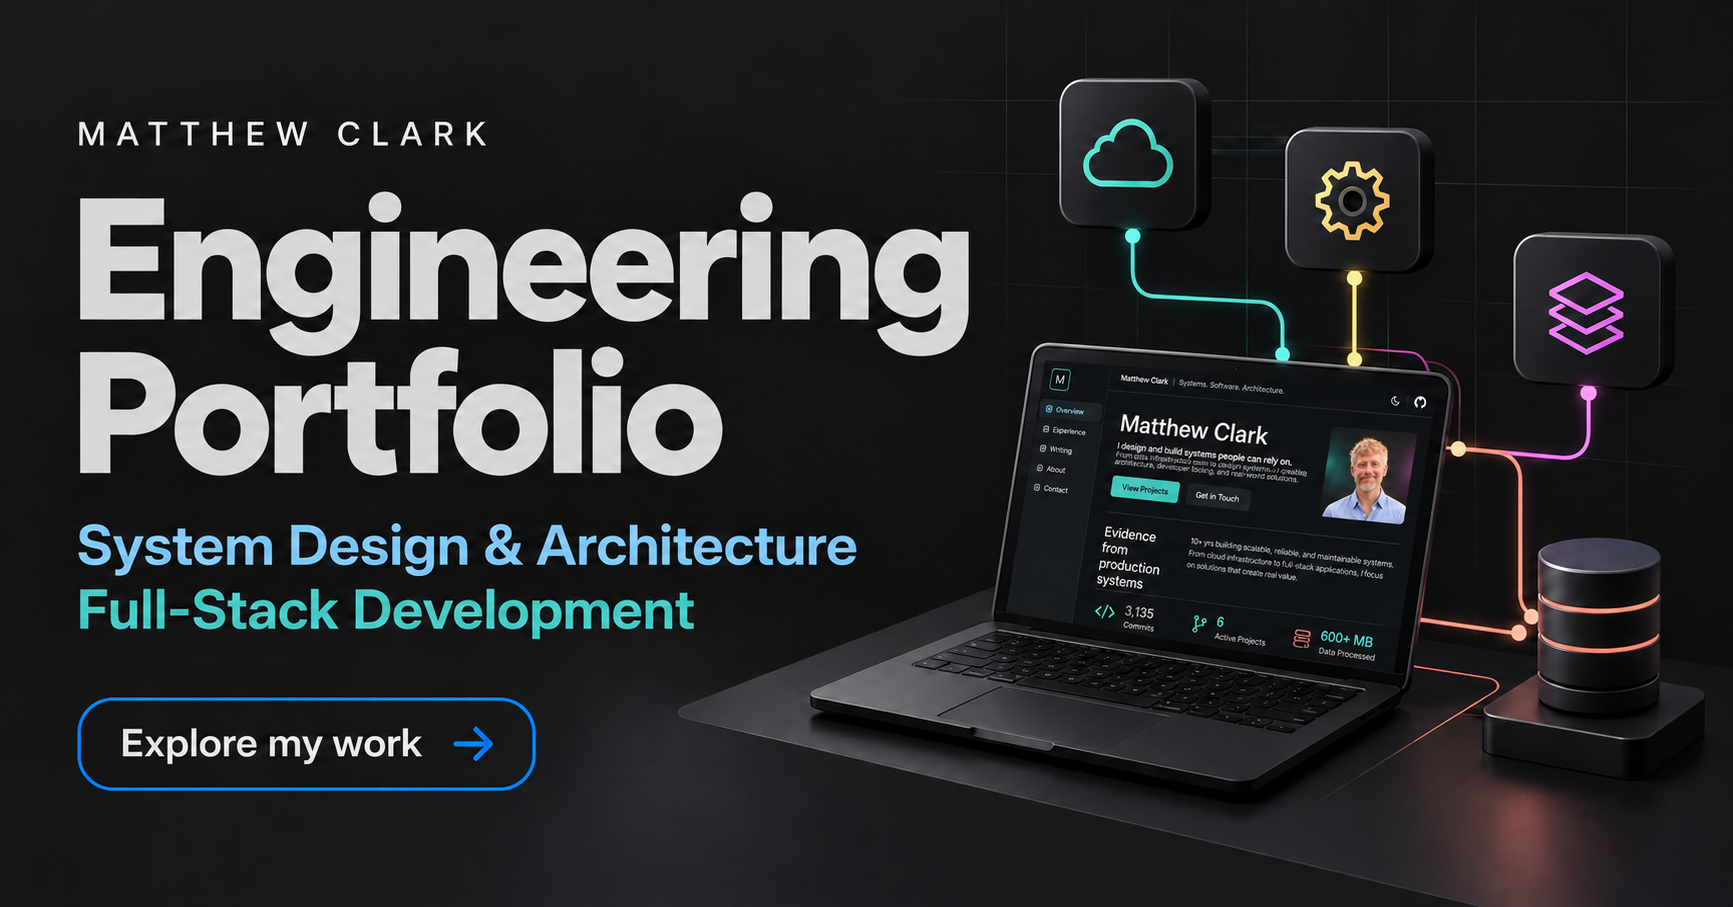
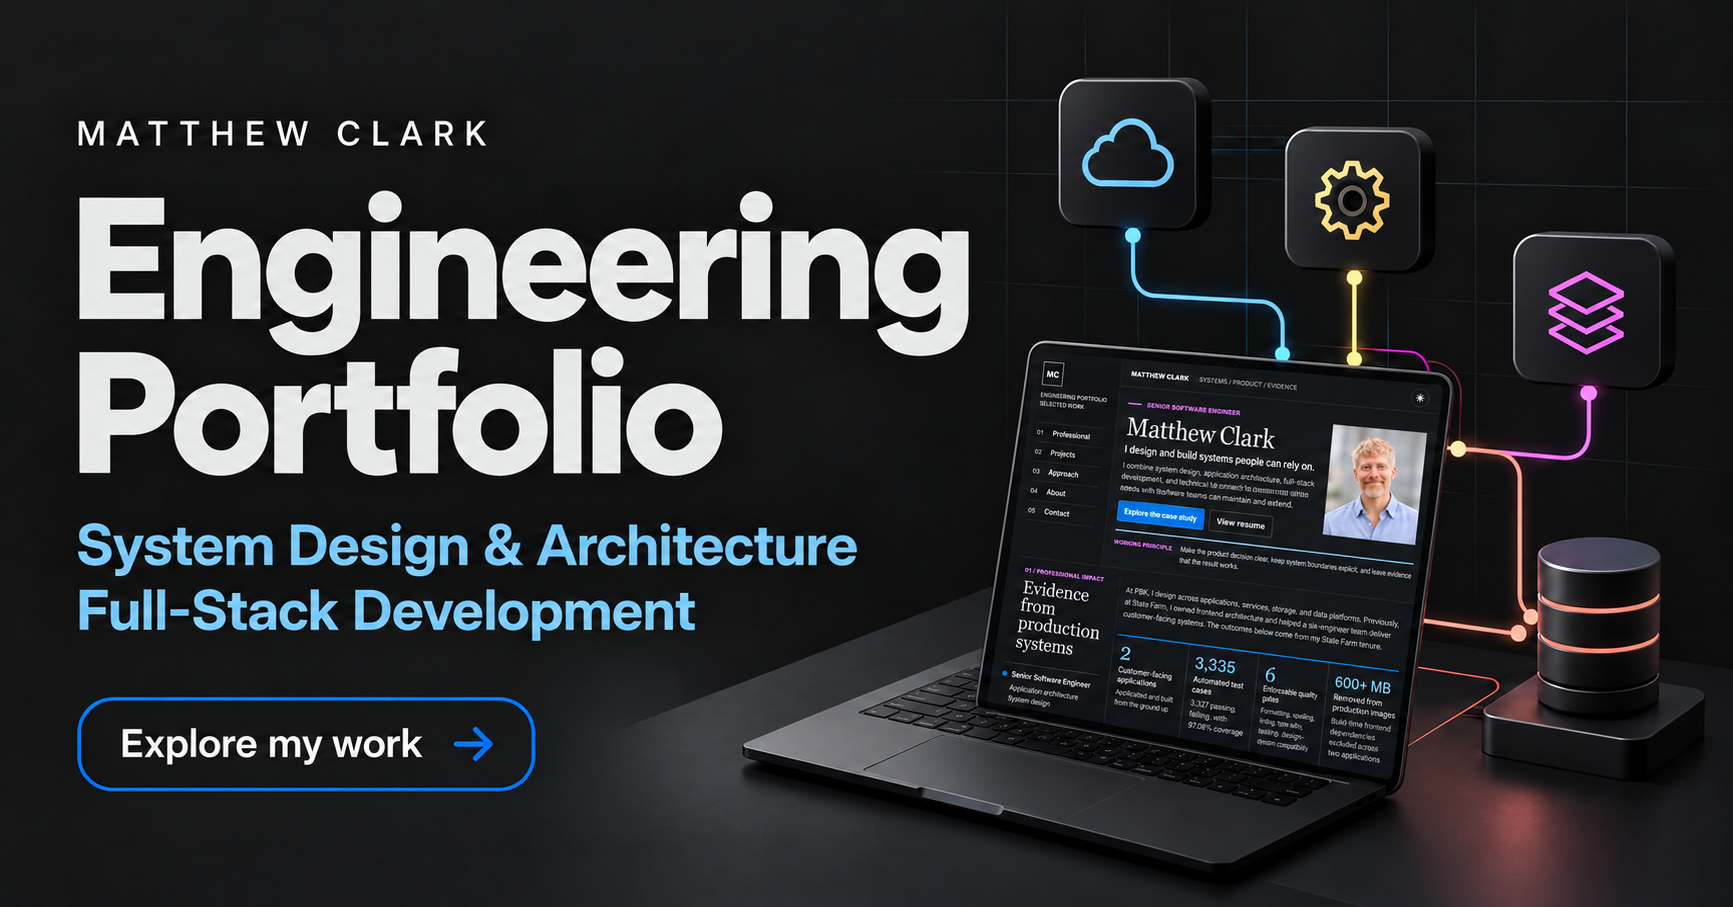
Refresh portfolio artwork with neutral Dark Modern UI and original portrait (#14)

diff --git a/assets/dark-modern/README.md b/assets/dark-modern/README.md
@@ -1,7 +1,7 @@
 # Dark Modern visual assets
 
-Seven refreshed PNG originals, generated with the built-in ImageGen tool from
-the supplied reference images. The original Downloads files are unchanged.
+Six refreshed PNG artworks generated with the built-in ImageGen tool and the
+unaltered user-supplied headshot JPG. Original inputs are preserved.
 
 The family uses charcoal backgrounds, gray text, blue actions, and purposeful
 teal, magenta, yellow, salmon, olive, and light-blue accents. App CSS uses the
@@ -14,7 +14,7 @@ and includes lighting and shading rather than pixel-exact flat fills.
 | dsa-dojo-thumbnail.png | DSA Dojo project card and social preview |
 | goodreads-thumbnail.png | Goodreads link card |
 | pay-period-planner-thumbnail.png | Planner project card |
-| headshot-dark-modern.png | Portrait with charcoal, teal, and magenta background |
+| headshot.jpg | Original portrait with softly blurred neutral background |
 | portfolio-thumbnail.png | Portfolio link card and social preview |
 | resume-thumbnail.png | Resume link card |
 
